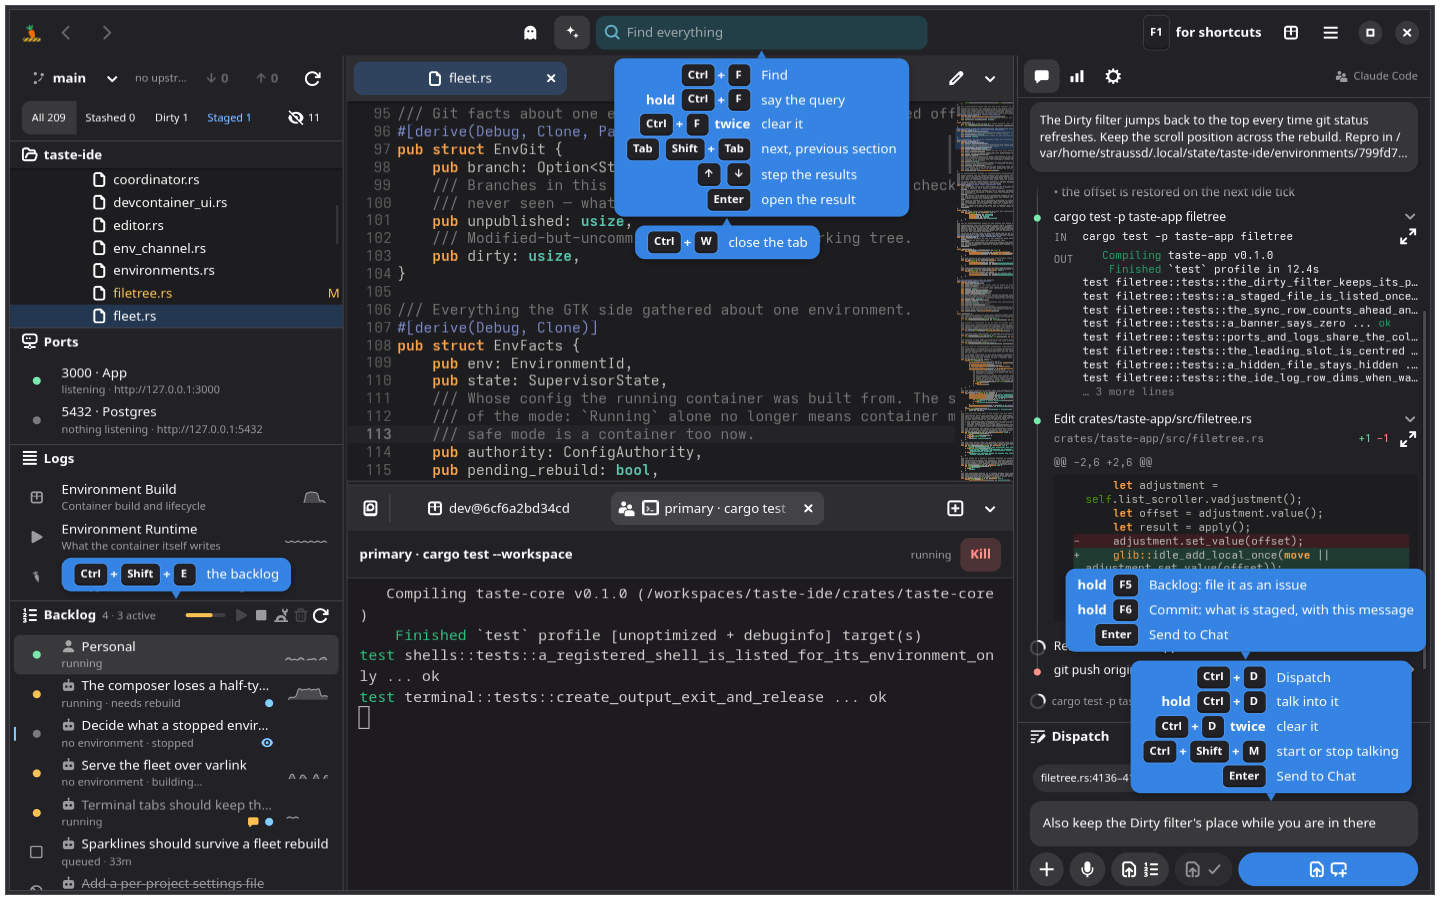
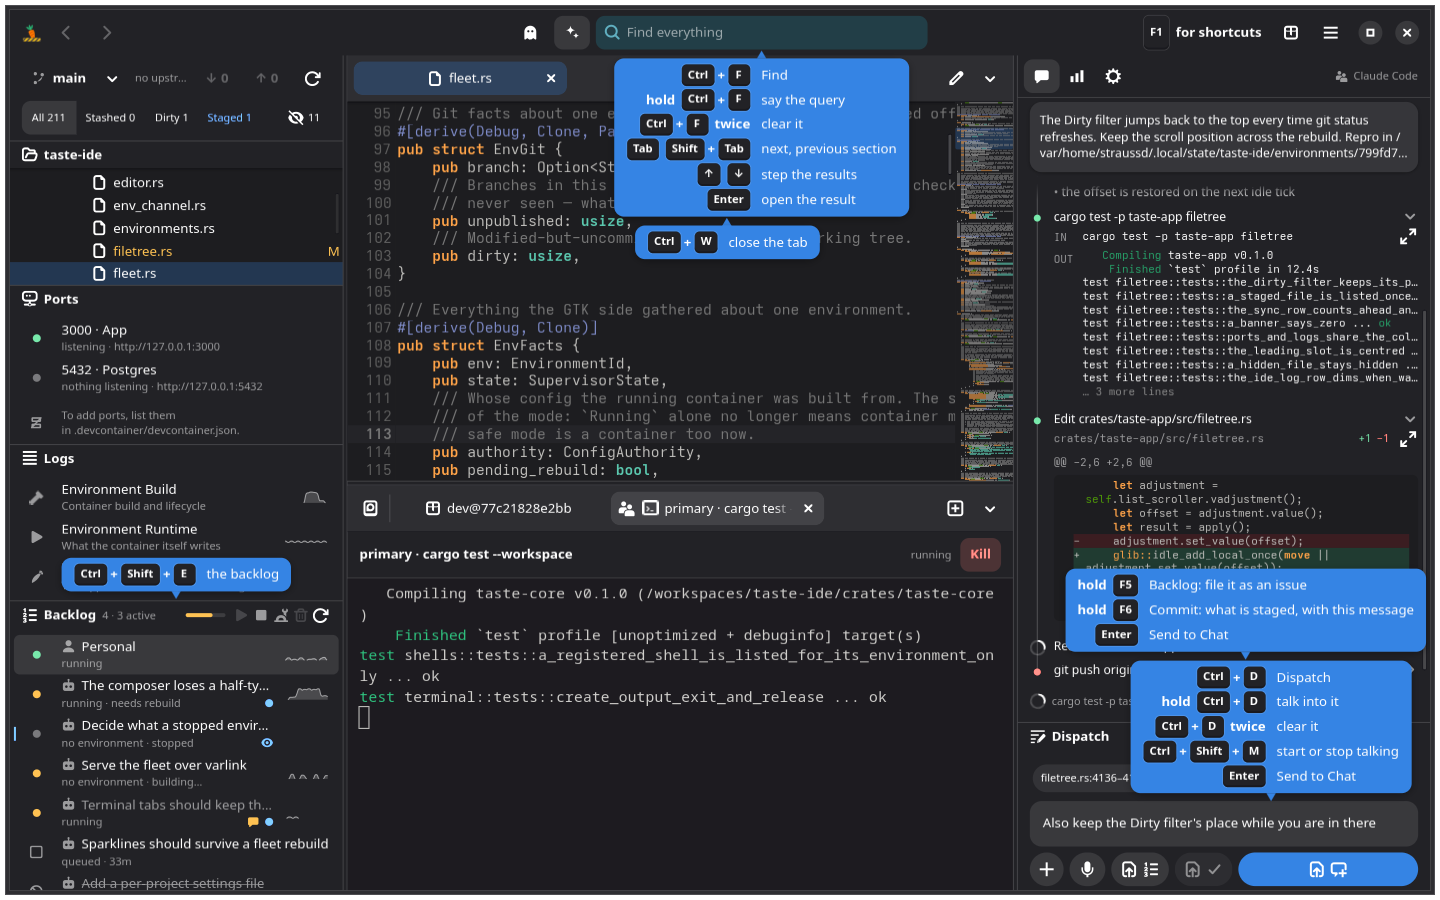
The IDE's log glyph fills its box and the build log's is a hammer; the Ports ghost row says where ports are listed, opens that file, and stays under the list
The symbolic carrot is redrawn to fill a 16px box — the app icon's own
geometry is tall and thin and came out tiny at row size (David,
2026-09-08: "The logs icon for the IDE should be much bigger") — and the
build log wears a hammer rather than a package, since both logs are a
container's ("Use something like a hammer icon for build").

The Ports ghost row reads "To add ports, list them in
.devcontainer/devcontainer.json." and a click opens whichever config
exists, or the conventional one as an unsaved buffer to fill in, the way
the tree's own ghost does — the existence check is a stat and runs off
the main thread. It stays under the list whatever the list holds, pushed
down by the rows, like the backlog's ("keep the ghost row at the bottom
always. Just let it get pushed down").

Changed region(s): [[0.0, 0.1867, 0.25, 0.4978], [0.2812, 0.56, 0.4062, 0.5911], [0.0, 0.5289, 0.0312, 0.56]]

diff --git a/crates/taste-app/src/filetree.rs b/crates/taste-app/src/filetree.rs
@@ -112,6 +112,11 @@ pub(crate) const ROW_INSET: i32 = 10;
 pub(crate) const ROW_GAP: i32 = 12;
 pub(crate) const LEAD_WIDTH: i32 = 26;
 
+/// Where the Ports ghost row says ports are listed — the conventional
+/// place (docs/ARCHITECTURE.md → Conventions); the click opens whichever
+/// config actually exists.
+const PORTS_CONFIG_HINT_PATH: &str = ".devcontainer/devcontainer.json";
+
 /// The leading slot of a row: fixed width, whatever is in it centred, so
 /// an 8px dot, a 14px glyph and a checkbox share a centre line.
 pub(crate) fn leading_slot(child: &impl IsA<gtk::Widget>) -> gtk::Box {
@@ -903,10 +908,13 @@ impl FileTree {
         ports_results.widget.set_widget_name("ports-results");
         let (ports_section, ports_list, ports_body) = section(crate::portview::PORT_ICON, "Ports");
         // A ghost row like the other panels' (David, 2026-09-08: "For
-        // ports, when there are none, show a 'ghost row' just like for other
-        // panels. Except, have a port with a slash through it as the
-        // icon"): the rows' own geometry, the slashed port in the leading
-        // slot, and the words as they were.
+        // ports … show a 'ghost row' just like for other panels. Except,
+        // have a port with a slash through it as the icon"; then: "To add
+        // ports, list them in <filename>. Clicking it should open that file
+        // path. Like for backlog, keep the ghost row at the bottom always"):
+        // the rows' own geometry, the slashed port in the leading slot,
+        // under the list whatever it holds, and a click opens the config —
+        // or offers to create it, as the tree's own ghost does.
         let ports_empty = gtk::Box::new(gtk::Orientation::Horizontal, ROW_GAP);
         // Plus the 4 a list row pads itself by: this box is in the body,
         // not the list, and its glyph and words must stand on the rows'
@@ -925,7 +933,10 @@ impl FileTree {
         ));
         ports_empty.append(
             &gtk::Label::builder()
-                .label("No forwardPorts in devcontainer.json")
+                .label(format!(
+                    "To add ports, list them in {}.",
+                    PORTS_CONFIG_HINT_PATH
+                ))
                 .css_classes(["caption", "dim-label"])
                 .xalign(0.0)
                 .wrap(true)
@@ -933,6 +944,7 @@ impl FileTree {
                 .max_width_chars(30)
                 .build(),
         );
+        ports_empty.set_cursor_from_name(Some("pointer"));
         ports_body.append(&ports_empty);
         ports_body.append(&ports_results.widget);
 
@@ -1066,6 +1078,33 @@ impl FileTree {
             expanded_dirs: RefCell::new(HashSet::new()),
             refresh: RefreshGate::default(),
         });
+        {
+            // The ghost's click: the config that exists, in the editor — or
+            // the conventional one as an unsaved buffer to fill in. The
+            // existence check is a stat, so it runs off the main thread.
+            let weak = Rc::downgrade(&tree);
+            let click = gtk::GestureClick::new();
+            click.connect_released(move |_, _, _, _| {
+                let Some(tree) = weak.upgrade() else { return };
+                let root = tree.workspace.root().to_path_buf();
+                let weak = weak.clone();
+                glib::spawn_future_local(async move {
+                    let handle = crate::runtime::runtime().spawn_blocking(move || {
+                        taste_devcontainer::config::candidate_paths(&root)
+                            .into_iter()
+                            .find(|path| path.is_file())
+                            .ok_or_else(|| root.join(PORTS_CONFIG_HINT_PATH))
+                    });
+                    let Ok(found) = handle.await else { return };
+                    let Some(tree) = weak.upgrade() else { return };
+                    match found {
+                        Ok(existing) => tree.open(existing, None),
+                        Err(absent) => tree.create_ghost(&absent),
+                    }
+                });
+            });
+            tree.ports_empty.add_controller(click);
+        }
 
         {
             let weak = Rc::downgrade(&tree);
@@ -2194,7 +2233,8 @@ impl FileTree {
             }
             self.ports_list.append(&widget);
         }
-        self.ports_empty.set_visible(rows.is_empty());
+        // The ghost row stays under the list whatever it holds, pushed
+        // down by the rows above it.
         if let Some(search) = self.search.borrow().as_ref() {
             search.set_panel_hits(crate::search::Panel::Ports, total);
         }

diff --git a/crates/taste-app/src/logview.rs b/crates/taste-app/src/logview.rs
@@ -66,11 +66,12 @@ impl LogKind {
     /// Each log's own glyph, monochrome like the rest of the column (David,
     /// 2026-09-08: "For logs, use an icon for each one, keeping it
     /// monochrome. Use the IDE's icon for the IDE"): the build log a
-    /// package, the runtime log a play mark, the IDE its own carrot in
-    /// symbolic form.
+    /// hammer (not a container — both logs are a container's; David:
+    /// "Use something like a hammer icon for build"), the runtime log a
+    /// play mark, the IDE its own carrot in symbolic form.
     pub fn icon(self) -> &'static str {
         match self {
-            LogKind::Environment => "package-x-generic-symbolic",
+            LogKind::Environment => "taste-build-symbolic",
             LogKind::Container => "media-playback-start-symbolic",
             LogKind::Ide => "taste-ide-symbolic",
         }
